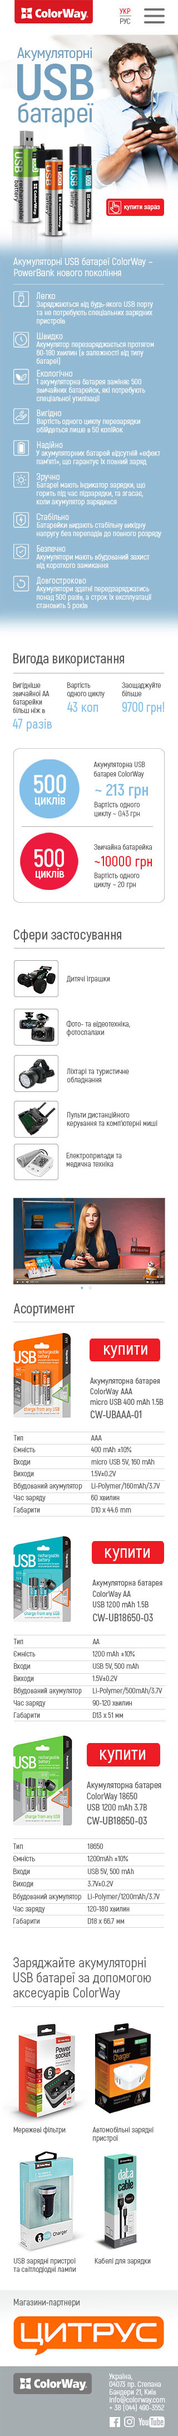
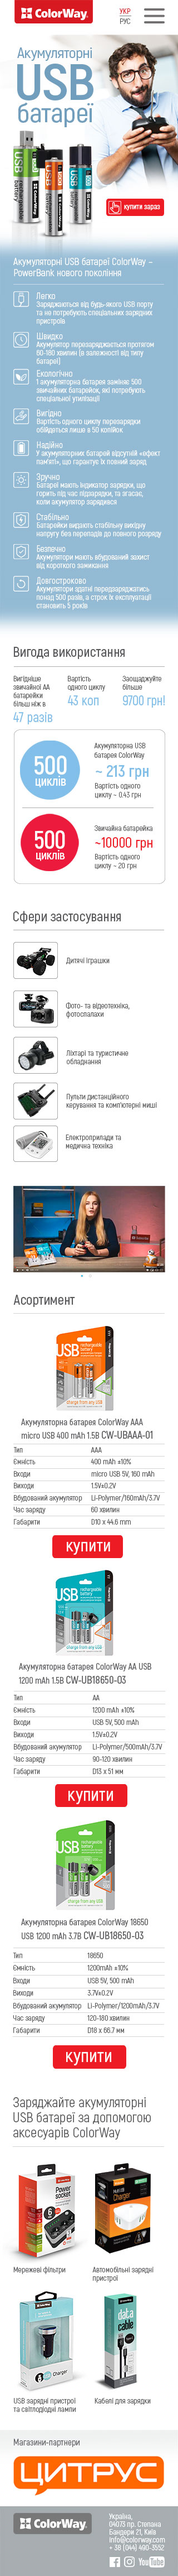
added new battery_mobile jpg

diff --git a/sass/global.scss b/sass/global.scss
@@ -4,7 +4,7 @@ body {
   //min-width: 1000px;
   font-family: $font-family;
   background: url("/_design/battery_mobile.jpg") no-repeat center top;
-  min-height: 4366px;
+  min-height: 4366px; 
   //background-color: #2aab6d;
 }
 
@@ -15,14 +15,14 @@ img {
 //
 @media (min-width: $screen-md) {
   body {
-    background: url("/_design/battery_tablet.jpg") no-repeat center top;
+    //background: url("/_design/battery_tablet.jpg") no-repeat center top;
     min-height: 3088px;
   }
 }
 
 @media (min-width: $screen-lg) {
   body {
-    background: url("/_design/battery_desktop.jpg") no-repeat center top;
+    //background: url("/_design/battery_desktop.jpg") no-repeat center top;
     min-height: 4447px;
   }
 }
